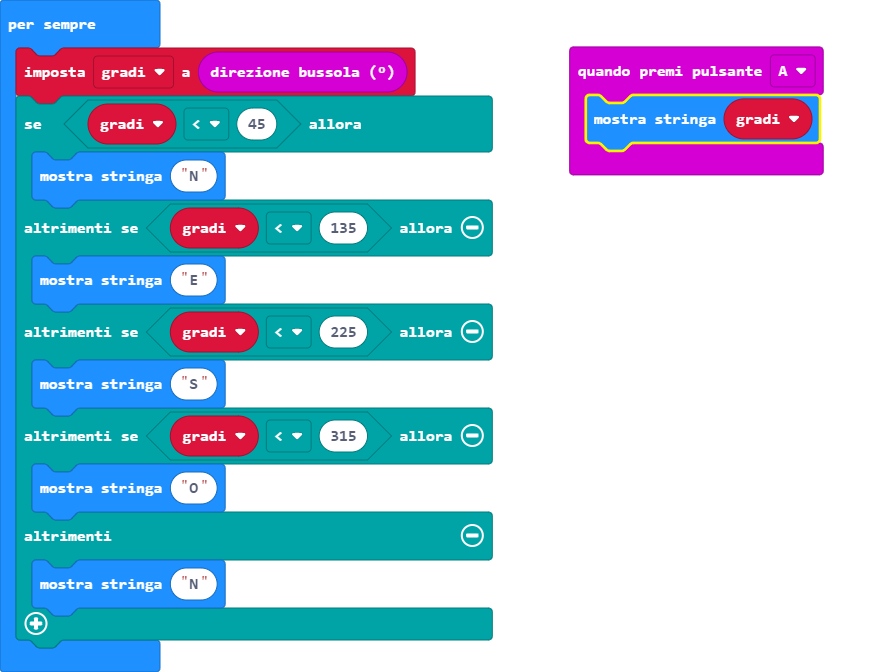
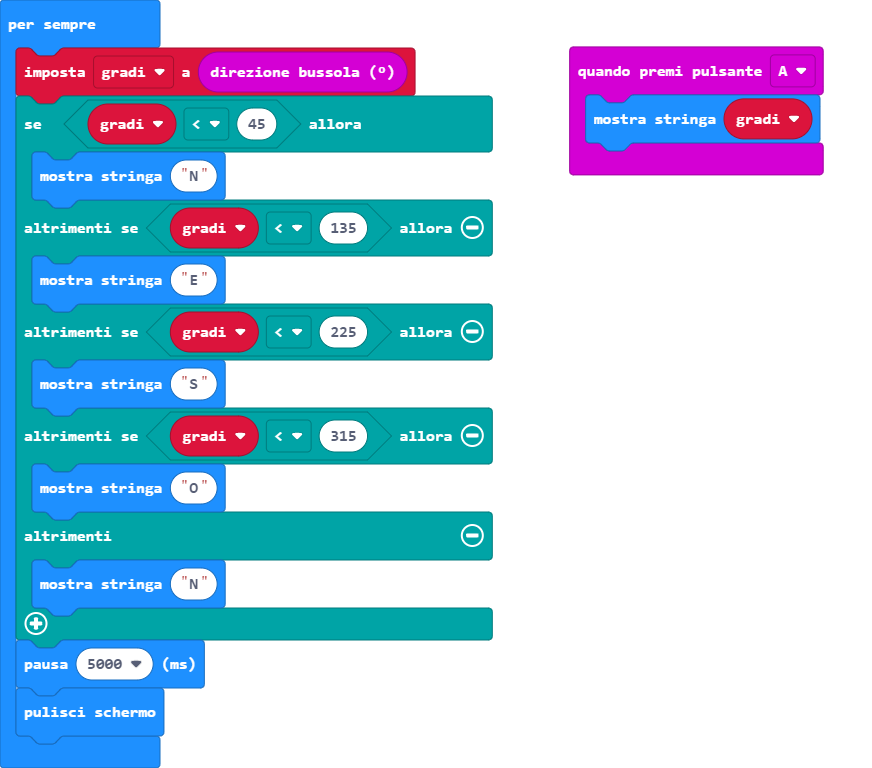
Aggiorna main.blocks, main.ts

diff --git a/main.ts b/main.ts
@@ -15,4 +15,6 @@ basic.forever(function () {
     } else {
         basic.showString("N")
     }
+    basic.pause(5000)
+    basic.clearScreen()
 })
